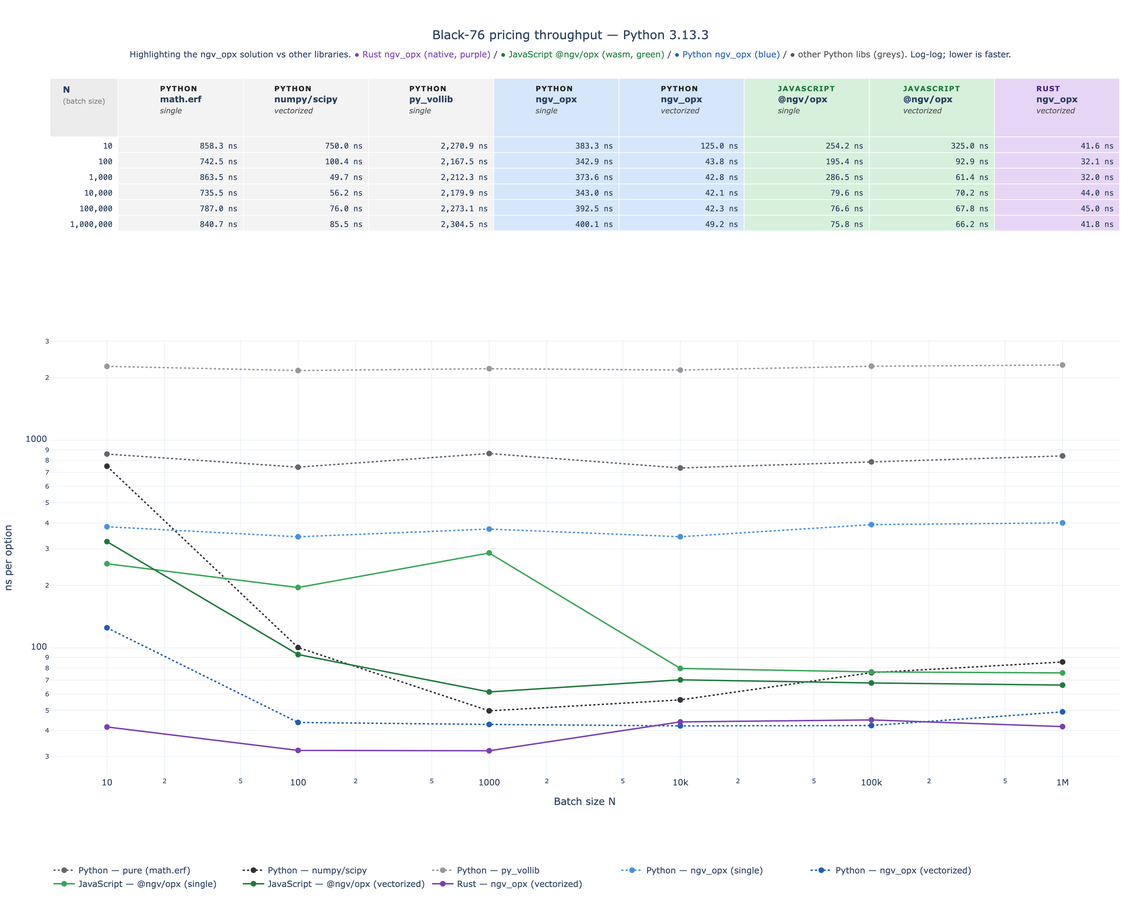
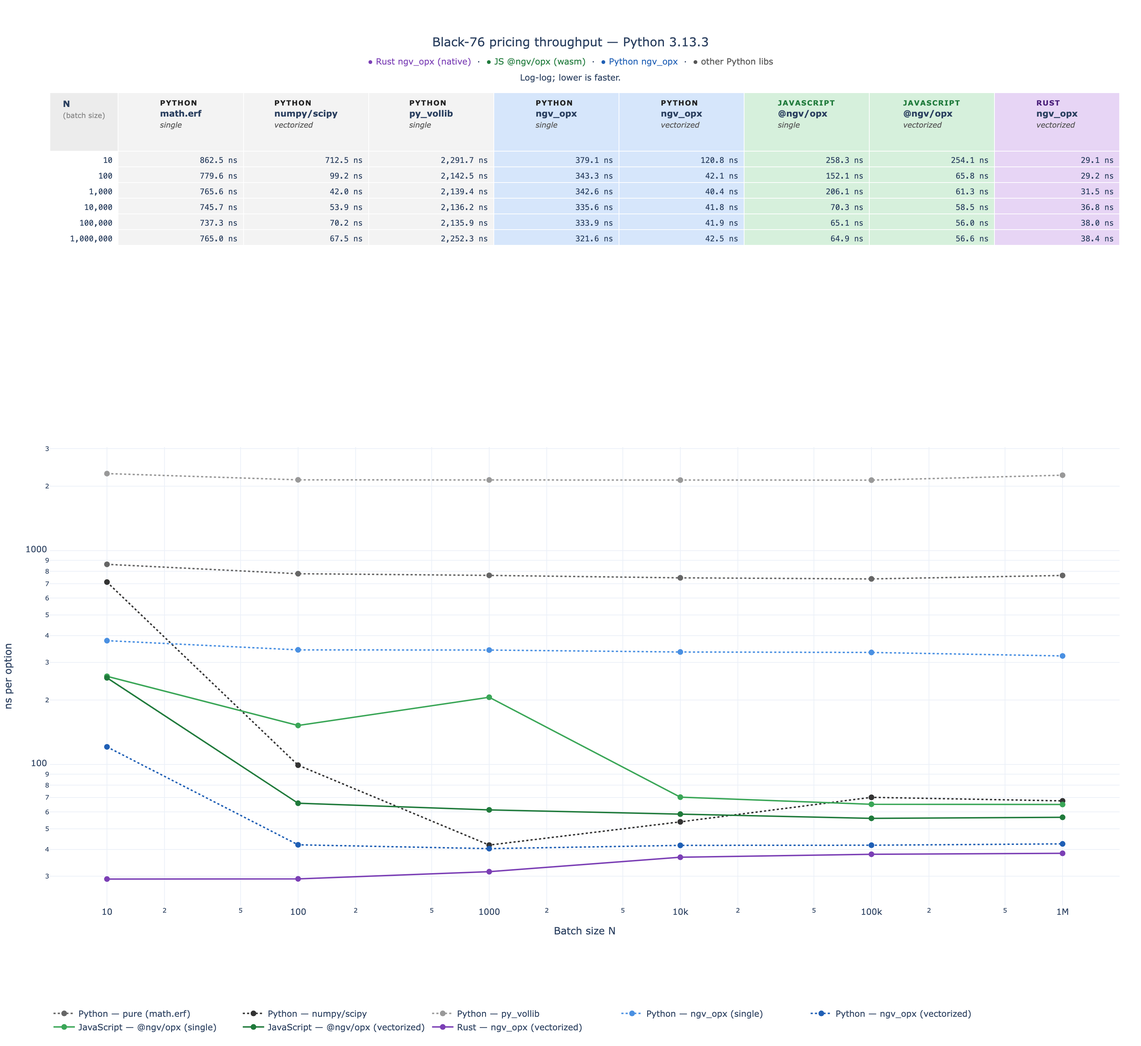
style(bench): more vertical space; two-line subtitle
Two layout fixes:

- Table was clipping the N=1,000,000 row because the 3-line stacked
  header (commit 2a2aa28) ate into the 0.32 row-height share. Bump
  overall figure to 1100px and table share to 0.40, so all six size
  rows (10 → 1M) fit comfortably under the new header.

- Subtitle overflowed the 1200px chart width when all four color
  legends were on one line. Split into two lines: legend on top,
  log-log axis note below. Also dropped the parenthetical "(native,
  purple)" / "(wasm, green)" tags since the colored bullets already
  carry that signal.

PNG export height bumped 1267 → 1467 to preserve aspect ratio.

diff --git a/benchmarks/bench_chart.html b/benchmarks/bench_chart.html
@@ -2,6 +2,6 @@
 <head><meta charset="utf-8" /></head>
 <body>
     <div>                        <script>window.PlotlyConfig = {MathJaxConfig: 'local'};</script>
-        <script charset="utf-8" src="https://cdn.plot.ly/plotly-3.5.0.min.js" integrity="sha256-fHbNLP+GlIXN+efbQec78UkemUz3NJp7UmfGxC1tNxs=" crossorigin="anonymous"></script>                <div id="b116313f-a162-4377-82ae-cb65ef4e4dff" class="plotly-graph-div" style="height:950px; width:1200px;"></div>            <script>                window.PLOTLYENV=window.PLOTLYENV || {};                                if (document.getElementById("b116313f-a162-4377-82ae-cb65ef4e4dff")) {                    Plotly.newPlot(                        "b116313f-a162-4377-82ae-cb65ef4e4dff",                        [{"hovertemplate":"\u003cb\u003ePython — pure (math.erf)\u003c\u002fb\u003e\u003cbr\u003elanguage: Python\u003cbr\u003eN=%{x:,}\u003cbr\u003e%{y:.1f} ns\u002foption\u003cextra\u003e\u003c\u002fextra\u003e","line":{"color":"#666666","dash":"dot","width":2},"marker":{"size":8},"mode":"lines+markers","name":"Python — pure (math.erf)","x":[10,100,1000,10000,100000,1000000],"y":[858.2952432334423,742.4992509186268,863.5410340502858,735.512503888458,786.9600004050881,840.7150839921087],"type":"scatter","xaxis":"x","yaxis":"y"},{"hovertemplate":"\u003cb\u003ePython — numpy\u002fscipy\u003c\u002fb\u003e\u003cbr\u003elanguage: Python\u003cbr\u003eN=%{x:,}\u003cbr\u003e%{y:.1f} ns\u002foption\u003cextra\u003e\u003c\u002fextra\u003e","line":{"color":"#333333","dash":"dot","width":2},"marker":{"size":8},"mode":"lines+markers","name":"Python — numpy\u002fscipy","x":[10,100,1000,10000,100000,1000000],"y":[749.9940693378448,100.41985660791397,49.749971367418766,56.18750583380461,75.9920896962285,85.52004199009389],"type":"scatter","xaxis":"x","yaxis":"y"},{"hovertemplate":"\u003cb\u003ePython — py_vollib\u003c\u002fb\u003e\u003cbr\u003elanguage: Python\u003cbr\u003eN=%{x:,}\u003cbr\u003e%{y:.1f} ns\u002foption\u003cextra\u003e\u003c\u002fextra\u003e","line":{"color":"#999999","dash":"dot","width":2},"marker":{"size":8},"mode":"lines+markers","name":"Python — py_vollib","x":[10,100,1000,10000,100000,1000000],"y":[2270.9020413458347,2167.4996241927147,2212.3330272734165,2179.9417096190155,2273.142079357058,2304.498167010024],"type":"scatter","xaxis":"x","yaxis":"y"},{"hovertemplate":"\u003cb\u003ePython — ngv_opx (single)\u003c\u002fb\u003e\u003cbr\u003elanguage: Python\u003cbr\u003eN=%{x:,}\u003cbr\u003e%{y:.1f} ns\u002foption\u003cextra\u003e\u003c\u002fextra\u003e","line":{"color":"#4a90e2","dash":"dot","width":2},"marker":{"size":8},"mode":"lines+markers","name":"Python — ngv_opx (single)","x":[10,100,1000,10000,100000,1000000],"y":[383.2974471151829,342.91064366698265,373.5839854925871,343.00830448046327,392.45208026841283,400.07895801682025],"type":"scatter","xaxis":"x","yaxis":"y"},{"hovertemplate":"\u003cb\u003ePython — ngv_opx (vectorized)\u003c\u002fb\u003e\u003cbr\u003elanguage: Python\u003cbr\u003eN=%{x:,}\u003cbr\u003e%{y:.1f} ns\u002foption\u003cextra\u003e\u003c\u002fextra\u003e","line":{"color":"#1f5fb5","dash":"dot","width":2},"marker":{"size":8},"mode":"lines+markers","name":"Python — ngv_opx (vectorized)","x":[10,100,1000,10000,100000,1000000],"y":[124.99513104557991,43.75004209578037,42.7919439971447,42.104197200387716,42.269579134881496,49.20174996368587],"type":"scatter","xaxis":"x","yaxis":"y"},{"hovertemplate":"\u003cb\u003eJavaScript — @ngv\u002fopx (single)\u003c\u002fb\u003e\u003cbr\u003elanguage: JavaScript\u003cbr\u003eN=%{x:,}\u003cbr\u003e%{y:.1f} ns\u002foption\u003cextra\u003e\u003c\u002fextra\u003e","line":{"color":"#3aa657","dash":"solid","width":2},"marker":{"size":8},"mode":"lines+markers","name":"JavaScript — @ngv\u002fopx (single)","x":[10,100,1000,10000,100000,1000000],"y":[254.20000000018206,195.4200000000128,286.54200000000077,79.6167000000004,76.62042,75.784583],"type":"scatter","xaxis":"x","yaxis":"y"},{"hovertemplate":"\u003cb\u003eJavaScript — @ngv\u002fopx (vectorized)\u003c\u002fb\u003e\u003cbr\u003elanguage: JavaScript\u003cbr\u003eN=%{x:,}\u003cbr\u003e%{y:.1f} ns\u002foption\u003cextra\u003e\u003c\u002fextra\u003e","line":{"color":"#1f7a3b","dash":"solid","width":2},"marker":{"size":8},"mode":"lines+markers","name":"JavaScript — @ngv\u002fopx (vectorized)","x":[10,100,1000,10000,100000,1000000],"y":[324.99999999977547,92.91000000001048,61.37500000000174,70.16250000000001,67.77584000000006,66.17812500000001],"type":"scatter","xaxis":"x","yaxis":"y"},{"hovertemplate":"\u003cb\u003eRust — ngv_opx (vectorized)\u003c\u002fb\u003e\u003cbr\u003elanguage: Rust\u003cbr\u003eN=%{x:,}\u003cbr\u003e%{y:.1f} ns\u002foption\u003cextra\u003e\u003c\u002fextra\u003e","line":{"color":"#7b3fb5","dash":"solid","width":2},"marker":{"size":8},"mode":"lines+markers","name":"Rust — ngv_opx (vectorized)","x":[10,100,1000,10000,100000,1000000],"y":[41.6,32.08,31.958,44.0,44.9921,41.7671],"type":"scatter","xaxis":"x","yaxis":"y"},{"cells":{"align":"right","fill":{"color":[["white","white","white","white","white","white"],["#f3f3f3","#f3f3f3","#f3f3f3","#f3f3f3","#f3f3f3","#f3f3f3"],["#f3f3f3","#f3f3f3","#f3f3f3","#f3f3f3","#f3f3f3","#f3f3f3"],["#f3f3f3","#f3f3f3","#f3f3f3","#f3f3f3","#f3f3f3","#f3f3f3"],["#d6e6fb","#d6e6fb","#d6e6fb","#d6e6fb","#d6e6fb","#d6e6fb"],["#d6e6fb","#d6e6fb","#d6e6fb","#d6e6fb","#d6e6fb","#d6e6fb"],["#d6f0dc","#d6f0dc","#d6f0dc","#d6f0dc","#d6f0dc","#d6f0dc"],["#d6f0dc","#d6f0dc","#d6f0dc","#d6f0dc","#d6f0dc","#d6f0dc"],["#e7d5f5","#e7d5f5","#e7d5f5","#e7d5f5","#e7d5f5","#e7d5f5"]]},"font":{"family":"monospace","size":11},"height":22,"values":[["10","100","1,000","10,000","100,000","1,000,000"],["858.3 ns","742.5 ns","863.5 ns","735.5 ns","787.0 ns","840.7 ns"],["750.0 ns","100.4 ns","49.7 ns","56.2 ns","76.0 ns","85.5 ns"],["2,270.9 ns","2,167.5 ns","2,212.3 ns","2,179.9 ns","2,273.1 ns","2,304.5 ns"],["383.3 ns","342.9 ns","373.6 ns","343.0 ns","392.5 ns","400.1 ns"],["125.0 ns","43.8 ns","42.8 ns","42.1 ns","42.3 ns","49.2 ns"],["254.2 ns","195.4 ns","286.5 ns","79.6 ns","76.6 ns","75.8 ns"],["325.0 ns","92.9 ns","61.4 ns","70.2 ns","67.8 ns","66.2 ns"],["41.6 ns","32.1 ns","32.0 ns","44.0 ns","45.0 ns","41.8 ns"]]},"columnwidth":[60,110,110,110,110,110,110,110,110],"header":{"align":"center","fill":{"color":["#ececec","#f3f3f3","#f3f3f3","#f3f3f3","#d6e6fb","#d6e6fb","#d6f0dc","#d6f0dc","#e7d5f5"]},"font":{"size":12},"height":82,"values":["\u003cb\u003eN\u003c\u002fb\u003e\u003cbr\u003e\u003cspan style='font-size:10px;color:#888'\u003e(batch size)\u003c\u002fspan\u003e","\u003cspan style='background:#dcdcdc;color:#222222;font-size:10px;font-weight:700;padding:2px 8px;border-radius:3px;letter-spacing:1px;'\u003ePYTHON\u003c\u002fspan\u003e\u003cbr\u003e\u003cspan style='background:#f3f3f3;display:inline-block;padding:1px 8px;border-radius:3px;'\u003e\u003cb style='font-size:12px'\u003emath.erf\u003c\u002fb\u003e\u003c\u002fspan\u003e\u003cbr\u003e\u003cspan style='font-size:10.5px;color:#555;font-style:italic'\u003esingle\u003c\u002fspan\u003e","\u003cspan style='background:#dcdcdc;color:#222222;font-size:10px;font-weight:700;padding:2px 8px;border-radius:3px;letter-spacing:1px;'\u003ePYTHON\u003c\u002fspan\u003e\u003cbr\u003e\u003cspan style='background:#f3f3f3;display:inline-block;padding:1px 8px;border-radius:3px;'\u003e\u003cb style='font-size:12px'\u003enumpy\u002fscipy\u003c\u002fb\u003e\u003c\u002fspan\u003e\u003cbr\u003e\u003cspan style='font-size:10.5px;color:#555;font-style:italic'\u003evectorized\u003c\u002fspan\u003e","\u003cspan style='background:#dcdcdc;color:#222222;font-size:10px;font-weight:700;padding:2px 8px;border-radius:3px;letter-spacing:1px;'\u003ePYTHON\u003c\u002fspan\u003e\u003cbr\u003e\u003cspan style='background:#f3f3f3;display:inline-block;padding:1px 8px;border-radius:3px;'\u003e\u003cb style='font-size:12px'\u003epy_vollib\u003c\u002fb\u003e\u003c\u002fspan\u003e\u003cbr\u003e\u003cspan style='font-size:10.5px;color:#555;font-style:italic'\u003esingle\u003c\u002fspan\u003e","\u003cspan style='background:#dcdcdc;color:#222222;font-size:10px;font-weight:700;padding:2px 8px;border-radius:3px;letter-spacing:1px;'\u003ePYTHON\u003c\u002fspan\u003e\u003cbr\u003e\u003cspan style='background:#d6e6fb;display:inline-block;padding:1px 8px;border-radius:3px;'\u003e\u003cb style='font-size:12px'\u003engv_opx\u003c\u002fb\u003e\u003c\u002fspan\u003e\u003cbr\u003e\u003cspan style='font-size:10.5px;color:#555;font-style:italic'\u003esingle\u003c\u002fspan\u003e","\u003cspan style='background:#dcdcdc;color:#222222;font-size:10px;font-weight:700;padding:2px 8px;border-radius:3px;letter-spacing:1px;'\u003ePYTHON\u003c\u002fspan\u003e\u003cbr\u003e\u003cspan style='background:#d6e6fb;display:inline-block;padding:1px 8px;border-radius:3px;'\u003e\u003cb style='font-size:12px'\u003engv_opx\u003c\u002fb\u003e\u003c\u002fspan\u003e\u003cbr\u003e\u003cspan style='font-size:10.5px;color:#555;font-style:italic'\u003evectorized\u003c\u002fspan\u003e","\u003cspan style='background:#c8e6cf;color:#1f7a3b;font-size:10px;font-weight:700;padding:2px 8px;border-radius:3px;letter-spacing:1px;'\u003eJAVASCRIPT\u003c\u002fspan\u003e\u003cbr\u003e\u003cspan style='background:#d6f0dc;display:inline-block;padding:1px 8px;border-radius:3px;'\u003e\u003cb style='font-size:12px'\u003e@ngv\u002fopx\u003c\u002fb\u003e\u003c\u002fspan\u003e\u003cbr\u003e\u003cspan style='font-size:10.5px;color:#555;font-style:italic'\u003esingle\u003c\u002fspan\u003e","\u003cspan style='background:#c8e6cf;color:#1f7a3b;font-size:10px;font-weight:700;padding:2px 8px;border-radius:3px;letter-spacing:1px;'\u003eJAVASCRIPT\u003c\u002fspan\u003e\u003cbr\u003e\u003cspan style='background:#d6f0dc;display:inline-block;padding:1px 8px;border-radius:3px;'\u003e\u003cb style='font-size:12px'\u003e@ngv\u002fopx\u003c\u002fb\u003e\u003c\u002fspan\u003e\u003cbr\u003e\u003cspan style='font-size:10.5px;color:#555;font-style:italic'\u003evectorized\u003c\u002fspan\u003e","\u003cspan style='background:#d8c4ea;color:#4a1f7a;font-size:10px;font-weight:700;padding:2px 8px;border-radius:3px;letter-spacing:1px;'\u003eRUST\u003c\u002fspan\u003e\u003cbr\u003e\u003cspan style='background:#e7d5f5;display:inline-block;padding:1px 8px;border-radius:3px;'\u003e\u003cb style='font-size:12px'\u003engv_opx\u003c\u002fb\u003e\u003c\u002fspan\u003e\u003cbr\u003e\u003cspan style='font-size:10.5px;color:#555;font-style:italic'\u003evectorized\u003c\u002fspan\u003e"]},"type":"table","domain":{"x":[0.0,1.0],"y":[0.7056,1.0]}}],                        {"template":{"data":{"barpolar":[{"marker":{"line":{"color":"white","width":0.5},"pattern":{"fillmode":"overlay","size":10,"solidity":0.2}},"type":"barpolar"}],"bar":[{"error_x":{"color":"#2a3f5f"},"error_y":{"color":"#2a3f5f"},"marker":{"line":{"color":"white","width":0.5},"pattern":{"fillmode":"overlay","size":10,"solidity":0.2}},"type":"bar"}],"carpet":[{"aaxis":{"endlinecolor":"#2a3f5f","gridcolor":"#C8D4E3","linecolor":"#C8D4E3","minorgridcolor":"#C8D4E3","startlinecolor":"#2a3f5f"},"baxis":{"endlinecolor":"#2a3f5f","gridcolor":"#C8D4E3","linecolor":"#C8D4E3","minorgridcolor":"#C8D4E3","startlinecolor":"#2a3f5f"},"type":"carpet"}],"choropleth":[{"colorbar":{"outlinewidth":0,"ticks":""},"type":"choropleth"}],"contourcarpet":[{"colorbar":{"outlinewidth":0,"ticks":""},"type":"contourcarpet"}],"contour":[{"colorbar":{"outlinewidth":0,"ticks":""},"colorscale":[[0.0,"#0d0887"],[0.1111111111111111,"#46039f"],[0.2222222222222222,"#7201a8"],[0.3333333333333333,"#9c179e"],[0.4444444444444444,"#bd3786"],[0.5555555555555556,"#d8576b"],[0.6666666666666666,"#ed7953"],[0.7777777777777778,"#fb9f3a"],[0.8888888888888888,"#fdca26"],[1.0,"#f0f921"]],"type":"contour"}],"heatmap":[{"colorbar":{"outlinewidth":0,"ticks":""},"colorscale":[[0.0,"#0d0887"],[0.1111111111111111,"#46039f"],[0.2222222222222222,"#7201a8"],[0.3333333333333333,"#9c179e"],[0.4444444444444444,"#bd3786"],[0.5555555555555556,"#d8576b"],[0.6666666666666666,"#ed7953"],[0.7777777777777778,"#fb9f3a"],[0.8888888888888888,"#fdca26"],[1.0,"#f0f921"]],"type":"heatmap"}],"histogram2dcontour":[{"colorbar":{"outlinewidth":0,"ticks":""},"colorscale":[[0.0,"#0d0887"],[0.1111111111111111,"#46039f"],[0.2222222222222222,"#7201a8"],[0.3333333333333333,"#9c179e"],[0.4444444444444444,"#bd3786"],[0.5555555555555556,"#d8576b"],[0.6666666666666666,"#ed7953"],[0.7777777777777778,"#fb9f3a"],[0.8888888888888888,"#fdca26"],[1.0,"#f0f921"]],"type":"histogram2dcontour"}],"histogram2d":[{"colorbar":{"outlinewidth":0,"ticks":""},"colorscale":[[0.0,"#0d0887"],[0.1111111111111111,"#46039f"],[0.2222222222222222,"#7201a8"],[0.3333333333333333,"#9c179e"],[0.4444444444444444,"#bd3786"],[0.5555555555555556,"#d8576b"],[0.6666666666666666,"#ed7953"],[0.7777777777777778,"#fb9f3a"],[0.8888888888888888,"#fdca26"],[1.0,"#f0f921"]],"type":"histogram2d"}],"histogram":[{"marker":{"pattern":{"fillmode":"overlay","size":10,"solidity":0.2}},"type":"histogram"}],"mesh3d":[{"colorbar":{"outlinewidth":0,"ticks":""},"type":"mesh3d"}],"parcoords":[{"line":{"colorbar":{"outlinewidth":0,"ticks":""}},"type":"parcoords"}],"pie":[{"automargin":true,"type":"pie"}],"scatter3d":[{"line":{"colorbar":{"outlinewidth":0,"ticks":""}},"marker":{"colorbar":{"outlinewidth":0,"ticks":""}},"type":"scatter3d"}],"scattercarpet":[{"marker":{"colorbar":{"outlinewidth":0,"ticks":""}},"type":"scattercarpet"}],"scattergeo":[{"marker":{"colorbar":{"outlinewidth":0,"ticks":""}},"type":"scattergeo"}],"scattergl":[{"marker":{"colorbar":{"outlinewidth":0,"ticks":""}},"type":"scattergl"}],"scattermapbox":[{"marker":{"colorbar":{"outlinewidth":0,"ticks":""}},"type":"scattermapbox"}],"scattermap":[{"marker":{"colorbar":{"outlinewidth":0,"ticks":""}},"type":"scattermap"}],"scatterpolargl":[{"marker":{"colorbar":{"outlinewidth":0,"ticks":""}},"type":"scatterpolargl"}],"scatterpolar":[{"marker":{"colorbar":{"outlinewidth":0,"ticks":""}},"type":"scatterpolar"}],"scatter":[{"fillpattern":{"fillmode":"overlay","size":10,"solidity":0.2},"type":"scatter"}],"scatterternary":[{"marker":{"colorbar":{"outlinewidth":0,"ticks":""}},"type":"scatterternary"}],"surface":[{"colorbar":{"outlinewidth":0,"ticks":""},"colorscale":[[0.0,"#0d0887"],[0.1111111111111111,"#46039f"],[0.2222222222222222,"#7201a8"],[0.3333333333333333,"#9c179e"],[0.4444444444444444,"#bd3786"],[0.5555555555555556,"#d8576b"],[0.6666666666666666,"#ed7953"],[0.7777777777777778,"#fb9f3a"],[0.8888888888888888,"#fdca26"],[1.0,"#f0f921"]],"type":"surface"}],"table":[{"cells":{"fill":{"color":"#EBF0F8"},"line":{"color":"white"}},"header":{"fill":{"color":"#C8D4E3"},"line":{"color":"white"}},"type":"table"}]},"layout":{"annotationdefaults":{"arrowcolor":"#2a3f5f","arrowhead":0,"arrowwidth":1},"autotypenumbers":"strict","coloraxis":{"colorbar":{"outlinewidth":0,"ticks":""}},"colorscale":{"diverging":[[0,"#8e0152"],[0.1,"#c51b7d"],[0.2,"#de77ae"],[0.3,"#f1b6da"],[0.4,"#fde0ef"],[0.5,"#f7f7f7"],[0.6,"#e6f5d0"],[0.7,"#b8e186"],[0.8,"#7fbc41"],[0.9,"#4d9221"],[1,"#276419"]],"sequential":[[0.0,"#0d0887"],[0.1111111111111111,"#46039f"],[0.2222222222222222,"#7201a8"],[0.3333333333333333,"#9c179e"],[0.4444444444444444,"#bd3786"],[0.5555555555555556,"#d8576b"],[0.6666666666666666,"#ed7953"],[0.7777777777777778,"#fb9f3a"],[0.8888888888888888,"#fdca26"],[1.0,"#f0f921"]],"sequentialminus":[[0.0,"#0d0887"],[0.1111111111111111,"#46039f"],[0.2222222222222222,"#7201a8"],[0.3333333333333333,"#9c179e"],[0.4444444444444444,"#bd3786"],[0.5555555555555556,"#d8576b"],[0.6666666666666666,"#ed7953"],[0.7777777777777778,"#fb9f3a"],[0.8888888888888888,"#fdca26"],[1.0,"#f0f921"]]},"colorway":["#636efa","#EF553B","#00cc96","#ab63fa","#FFA15A","#19d3f3","#FF6692","#B6E880","#FF97FF","#FECB52"],"font":{"color":"#2a3f5f"},"geo":{"bgcolor":"white","lakecolor":"white","landcolor":"white","showlakes":true,"showland":true,"subunitcolor":"#C8D4E3"},"hoverlabel":{"align":"left"},"hovermode":"closest","mapbox":{"style":"light"},"paper_bgcolor":"white","plot_bgcolor":"white","polar":{"angularaxis":{"gridcolor":"#EBF0F8","linecolor":"#EBF0F8","ticks":""},"bgcolor":"white","radialaxis":{"gridcolor":"#EBF0F8","linecolor":"#EBF0F8","ticks":""}},"scene":{"xaxis":{"backgroundcolor":"white","gridcolor":"#DFE8F3","gridwidth":2,"linecolor":"#EBF0F8","showbackground":true,"ticks":"","zerolinecolor":"#EBF0F8"},"yaxis":{"backgroundcolor":"white","gridcolor":"#DFE8F3","gridwidth":2,"linecolor":"#EBF0F8","showbackground":true,"ticks":"","zerolinecolor":"#EBF0F8"},"zaxis":{"backgroundcolor":"white","gridcolor":"#DFE8F3","gridwidth":2,"linecolor":"#EBF0F8","showbackground":true,"ticks":"","zerolinecolor":"#EBF0F8"}},"shapedefaults":{"line":{"color":"#2a3f5f"}},"ternary":{"aaxis":{"gridcolor":"#DFE8F3","linecolor":"#A2B1C6","ticks":""},"baxis":{"gridcolor":"#DFE8F3","linecolor":"#A2B1C6","ticks":""},"bgcolor":"white","caxis":{"gridcolor":"#DFE8F3","linecolor":"#A2B1C6","ticks":""}},"title":{"x":0.05},"xaxis":{"automargin":true,"gridcolor":"#EBF0F8","linecolor":"#EBF0F8","ticks":"","title":{"standoff":15},"zerolinecolor":"#EBF0F8","zerolinewidth":2},"yaxis":{"automargin":true,"gridcolor":"#EBF0F8","linecolor":"#EBF0F8","ticks":"","title":{"standoff":15},"zerolinecolor":"#EBF0F8","zerolinewidth":2}}},"xaxis":{"anchor":"y","domain":[0.0,1.0],"title":{"text":"Batch size N"},"type":"log","showgrid":true},"yaxis":{"anchor":"x","domain":[0.0,0.6256],"title":{"text":"ns per option"},"type":"log","showgrid":true},"title":{"text":"Black-76 pricing throughput — Python 3.13.3\u003cbr\u003e\u003csub\u003eHighlighting the ngv_opx solution vs other libraries. \u003cspan style='color:#7b3fb5'\u003e● Rust ngv_opx (native, purple)\u003c\u002fspan\u003e \u002f \u003cspan style='color:#1f7a3b'\u003e● JavaScript @ngv\u002fopx (wasm, green)\u003c\u002fspan\u003e \u002f \u003cspan style='color:#1f5fb5'\u003e● Python ngv_opx (blue)\u003c\u002fspan\u003e \u002f \u003cspan style='color:#555'\u003e● other Python libs (greys)\u003c\u002fspan\u003e. Log-log; lower is faster.\u003c\u002fsub\u003e","x":0.5,"xanchor":"center"},"legend":{"orientation":"h","yanchor":"top","y":-0.12,"x":0.0},"margin":{"l":70,"r":30,"t":110,"b":80},"height":950,"width":1200},                        {"responsive": true}                    )                };            </script>        </div>
+        <script charset="utf-8" src="https://cdn.plot.ly/plotly-3.5.0.min.js" integrity="sha256-fHbNLP+GlIXN+efbQec78UkemUz3NJp7UmfGxC1tNxs=" crossorigin="anonymous"></script>                <div id="d0c873e7-9926-4fae-94c0-4bbb910a9fa9" class="plotly-graph-div" style="height:1100px; width:1200px;"></div>            <script>                window.PLOTLYENV=window.PLOTLYENV || {};                                if (document.getElementById("d0c873e7-9926-4fae-94c0-4bbb910a9fa9")) {                    Plotly.newPlot(                        "d0c873e7-9926-4fae-94c0-4bbb910a9fa9",                        [{"hovertemplate":"\u003cb\u003ePython — pure (math.erf)\u003c\u002fb\u003e\u003cbr\u003elanguage: Python\u003cbr\u003eN=%{x:,}\u003cbr\u003e%{y:.1f} ns\u002foption\u003cextra\u003e\u003c\u002fextra\u003e","line":{"color":"#666666","dash":"dot","width":2},"marker":{"size":8},"mode":"lines+markers","name":"Python — pure (math.erf)","x":[10,100,1000,10000,100000,1000000],"y":[862.4978363513947,779.5798592269421,765.6249217689037,745.6917082890868,737.2525008395314,764.989290968515],"type":"scatter","xaxis":"x","yaxis":"y"},{"hovertemplate":"\u003cb\u003ePython — numpy\u002fscipy\u003c\u002fb\u003e\u003cbr\u003elanguage: Python\u003cbr\u003eN=%{x:,}\u003cbr\u003e%{y:.1f} ns\u002foption\u003cextra\u003e\u003c\u002fextra\u003e","line":{"color":"#333333","dash":"dot","width":2},"marker":{"size":8},"mode":"lines+markers","name":"Python — numpy\u002fscipy","x":[10,100,1000,10000,100000,1000000],"y":[712.4966941773891,99.16955605149269,41.95794463157654,53.87089913710952,70.15999988652766,67.52804096322507],"type":"scatter","xaxis":"x","yaxis":"y"},{"hovertemplate":"\u003cb\u003ePython — py_vollib\u003c\u002fb\u003e\u003cbr\u003elanguage: Python\u003cbr\u003eN=%{x:,}\u003cbr\u003e%{y:.1f} ns\u002foption\u003cextra\u003e\u003c\u002fextra\u003e","line":{"color":"#999999","dash":"dot","width":2},"marker":{"size":8},"mode":"lines+markers","name":"Python — py_vollib","x":[10,100,1000,10000,100000,1000000],"y":[2291.705459356308,2142.4994338303804,2139.3749630078673,2136.1750084906816,2135.8612505719066,2252.2521669743583],"type":"scatter","xaxis":"x","yaxis":"y"},{"hovertemplate":"\u003cb\u003ePython — ngv_opx (single)\u003c\u002fb\u003e\u003cbr\u003elanguage: Python\u003cbr\u003eN=%{x:,}\u003cbr\u003e%{y:.1f} ns\u002foption\u003cextra\u003e\u003c\u002fextra\u003e","line":{"color":"#4a90e2","dash":"dot","width":2},"marker":{"size":8},"mode":"lines+markers","name":"Python — ngv_opx (single)","x":[10,100,1000,10000,100000,1000000],"y":[379.09485399723053,343.3297388255596,342.62496046721935,335.5583059601486,333.9262492954731,321.6204590862617],"type":"scatter","xaxis":"x","yaxis":"y"},{"hovertemplate":"\u003cb\u003ePython — ngv_opx (vectorized)\u003c\u002fb\u003e\u003cbr\u003elanguage: Python\u003cbr\u003eN=%{x:,}\u003cbr\u003e%{y:.1f} ns\u002foption\u003cextra\u003e\u003c\u002fextra\u003e","line":{"color":"#1f5fb5","dash":"dot","width":2},"marker":{"size":8},"mode":"lines+markers","name":"Python — ngv_opx (vectorized)","x":[10,100,1000,10000,100000,1000000],"y":[120.80417945981026,42.07948222756386,40.37492908537388,41.820795740932226,41.89249943010509,42.50054096337408],"type":"scatter","xaxis":"x","yaxis":"y"},{"hovertemplate":"\u003cb\u003eJavaScript — @ngv\u002fopx (single)\u003c\u002fb\u003e\u003cbr\u003elanguage: JavaScript\u003cbr\u003eN=%{x:,}\u003cbr\u003e%{y:.1f} ns\u002foption\u003cextra\u003e\u003c\u002fextra\u003e","line":{"color":"#3aa657","dash":"solid","width":2},"marker":{"size":8},"mode":"lines+markers","name":"JavaScript — @ngv\u002fopx (single)","x":[10,100,1000,10000,100000,1000000],"y":[258.29999999977815,152.08999999998696,206.1250000000001,70.28750000000024,65.11874999999995,64.93758400000002],"type":"scatter","xaxis":"x","yaxis":"y"},{"hovertemplate":"\u003cb\u003eJavaScript — @ngv\u002fopx (vectorized)\u003c\u002fb\u003e\u003cbr\u003elanguage: JavaScript\u003cbr\u003eN=%{x:,}\u003cbr\u003e%{y:.1f} ns\u002foption\u003cextra\u003e\u003c\u002fextra\u003e","line":{"color":"#1f7a3b","dash":"solid","width":2},"marker":{"size":8},"mode":"lines+markers","name":"JavaScript — @ngv\u002fopx (vectorized)","x":[10,100,1000,10000,100000,1000000],"y":[254.1000000000793,65.82999999999117,61.29200000000167,58.545900000000024,55.95250000000001,56.56204200000002],"type":"scatter","xaxis":"x","yaxis":"y"},{"hovertemplate":"\u003cb\u003eRust — ngv_opx (vectorized)\u003c\u002fb\u003e\u003cbr\u003elanguage: Rust\u003cbr\u003eN=%{x:,}\u003cbr\u003e%{y:.1f} ns\u002foption\u003cextra\u003e\u003c\u002fextra\u003e","line":{"color":"#7b3fb5","dash":"solid","width":2},"marker":{"size":8},"mode":"lines+markers","name":"Rust — ngv_opx (vectorized)","x":[10,100,1000,10000,100000,1000000],"y":[29.1,29.16,31.5,36.8,38.0083,38.3946],"type":"scatter","xaxis":"x","yaxis":"y"},{"cells":{"align":"right","fill":{"color":[["white","white","white","white","white","white"],["#f3f3f3","#f3f3f3","#f3f3f3","#f3f3f3","#f3f3f3","#f3f3f3"],["#f3f3f3","#f3f3f3","#f3f3f3","#f3f3f3","#f3f3f3","#f3f3f3"],["#f3f3f3","#f3f3f3","#f3f3f3","#f3f3f3","#f3f3f3","#f3f3f3"],["#d6e6fb","#d6e6fb","#d6e6fb","#d6e6fb","#d6e6fb","#d6e6fb"],["#d6e6fb","#d6e6fb","#d6e6fb","#d6e6fb","#d6e6fb","#d6e6fb"],["#d6f0dc","#d6f0dc","#d6f0dc","#d6f0dc","#d6f0dc","#d6f0dc"],["#d6f0dc","#d6f0dc","#d6f0dc","#d6f0dc","#d6f0dc","#d6f0dc"],["#e7d5f5","#e7d5f5","#e7d5f5","#e7d5f5","#e7d5f5","#e7d5f5"]]},"font":{"family":"monospace","size":11},"height":22,"values":[["10","100","1,000","10,000","100,000","1,000,000"],["862.5 ns","779.6 ns","765.6 ns","745.7 ns","737.3 ns","765.0 ns"],["712.5 ns","99.2 ns","42.0 ns","53.9 ns","70.2 ns","67.5 ns"],["2,291.7 ns","2,142.5 ns","2,139.4 ns","2,136.2 ns","2,135.9 ns","2,252.3 ns"],["379.1 ns","343.3 ns","342.6 ns","335.6 ns","333.9 ns","321.6 ns"],["120.8 ns","42.1 ns","40.4 ns","41.8 ns","41.9 ns","42.5 ns"],["258.3 ns","152.1 ns","206.1 ns","70.3 ns","65.1 ns","64.9 ns"],["254.1 ns","65.8 ns","61.3 ns","58.5 ns","56.0 ns","56.6 ns"],["29.1 ns","29.2 ns","31.5 ns","36.8 ns","38.0 ns","38.4 ns"]]},"columnwidth":[60,110,110,110,110,110,110,110,110],"header":{"align":"center","fill":{"color":["#ececec","#f3f3f3","#f3f3f3","#f3f3f3","#d6e6fb","#d6e6fb","#d6f0dc","#d6f0dc","#e7d5f5"]},"font":{"size":12},"height":82,"values":["\u003cb\u003eN\u003c\u002fb\u003e\u003cbr\u003e\u003cspan style='font-size:10px;color:#888'\u003e(batch size)\u003c\u002fspan\u003e","\u003cspan style='background:#dcdcdc;color:#222222;font-size:10px;font-weight:700;padding:2px 8px;border-radius:3px;letter-spacing:1px;'\u003ePYTHON\u003c\u002fspan\u003e\u003cbr\u003e\u003cspan style='background:#f3f3f3;display:inline-block;padding:1px 8px;border-radius:3px;'\u003e\u003cb style='font-size:12px'\u003emath.erf\u003c\u002fb\u003e\u003c\u002fspan\u003e\u003cbr\u003e\u003cspan style='font-size:10.5px;color:#555;font-style:italic'\u003esingle\u003c\u002fspan\u003e","\u003cspan style='background:#dcdcdc;color:#222222;font-size:10px;font-weight:700;padding:2px 8px;border-radius:3px;letter-spacing:1px;'\u003ePYTHON\u003c\u002fspan\u003e\u003cbr\u003e\u003cspan style='background:#f3f3f3;display:inline-block;padding:1px 8px;border-radius:3px;'\u003e\u003cb style='font-size:12px'\u003enumpy\u002fscipy\u003c\u002fb\u003e\u003c\u002fspan\u003e\u003cbr\u003e\u003cspan style='font-size:10.5px;color:#555;font-style:italic'\u003evectorized\u003c\u002fspan\u003e","\u003cspan style='background:#dcdcdc;color:#222222;font-size:10px;font-weight:700;padding:2px 8px;border-radius:3px;letter-spacing:1px;'\u003ePYTHON\u003c\u002fspan\u003e\u003cbr\u003e\u003cspan style='background:#f3f3f3;display:inline-block;padding:1px 8px;border-radius:3px;'\u003e\u003cb style='font-size:12px'\u003epy_vollib\u003c\u002fb\u003e\u003c\u002fspan\u003e\u003cbr\u003e\u003cspan style='font-size:10.5px;color:#555;font-style:italic'\u003esingle\u003c\u002fspan\u003e","\u003cspan style='background:#dcdcdc;color:#222222;font-size:10px;font-weight:700;padding:2px 8px;border-radius:3px;letter-spacing:1px;'\u003ePYTHON\u003c\u002fspan\u003e\u003cbr\u003e\u003cspan style='background:#d6e6fb;display:inline-block;padding:1px 8px;border-radius:3px;'\u003e\u003cb style='font-size:12px'\u003engv_opx\u003c\u002fb\u003e\u003c\u002fspan\u003e\u003cbr\u003e\u003cspan style='font-size:10.5px;color:#555;font-style:italic'\u003esingle\u003c\u002fspan\u003e","\u003cspan style='background:#dcdcdc;color:#222222;font-size:10px;font-weight:700;padding:2px 8px;border-radius:3px;letter-spacing:1px;'\u003ePYTHON\u003c\u002fspan\u003e\u003cbr\u003e\u003cspan style='background:#d6e6fb;display:inline-block;padding:1px 8px;border-radius:3px;'\u003e\u003cb style='font-size:12px'\u003engv_opx\u003c\u002fb\u003e\u003c\u002fspan\u003e\u003cbr\u003e\u003cspan style='font-size:10.5px;color:#555;font-style:italic'\u003evectorized\u003c\u002fspan\u003e","\u003cspan style='background:#c8e6cf;color:#1f7a3b;font-size:10px;font-weight:700;padding:2px 8px;border-radius:3px;letter-spacing:1px;'\u003eJAVASCRIPT\u003c\u002fspan\u003e\u003cbr\u003e\u003cspan style='background:#d6f0dc;display:inline-block;padding:1px 8px;border-radius:3px;'\u003e\u003cb style='font-size:12px'\u003e@ngv\u002fopx\u003c\u002fb\u003e\u003c\u002fspan\u003e\u003cbr\u003e\u003cspan style='font-size:10.5px;color:#555;font-style:italic'\u003esingle\u003c\u002fspan\u003e","\u003cspan style='background:#c8e6cf;color:#1f7a3b;font-size:10px;font-weight:700;padding:2px 8px;border-radius:3px;letter-spacing:1px;'\u003eJAVASCRIPT\u003c\u002fspan\u003e\u003cbr\u003e\u003cspan style='background:#d6f0dc;display:inline-block;padding:1px 8px;border-radius:3px;'\u003e\u003cb style='font-size:12px'\u003e@ngv\u002fopx\u003c\u002fb\u003e\u003c\u002fspan\u003e\u003cbr\u003e\u003cspan style='font-size:10.5px;color:#555;font-style:italic'\u003evectorized\u003c\u002fspan\u003e","\u003cspan style='background:#d8c4ea;color:#4a1f7a;font-size:10px;font-weight:700;padding:2px 8px;border-radius:3px;letter-spacing:1px;'\u003eRUST\u003c\u002fspan\u003e\u003cbr\u003e\u003cspan style='background:#e7d5f5;display:inline-block;padding:1px 8px;border-radius:3px;'\u003e\u003cb style='font-size:12px'\u003engv_opx\u003c\u002fb\u003e\u003c\u002fspan\u003e\u003cbr\u003e\u003cspan style='font-size:10.5px;color:#555;font-style:italic'\u003evectorized\u003c\u002fspan\u003e"]},"type":"table","domain":{"x":[0.0,1.0],"y":[0.6239999999999999,0.9999999999999999]}}],                        {"template":{"data":{"barpolar":[{"marker":{"line":{"color":"white","width":0.5},"pattern":{"fillmode":"overlay","size":10,"solidity":0.2}},"type":"barpolar"}],"bar":[{"error_x":{"color":"#2a3f5f"},"error_y":{"color":"#2a3f5f"},"marker":{"line":{"color":"white","width":0.5},"pattern":{"fillmode":"overlay","size":10,"solidity":0.2}},"type":"bar"}],"carpet":[{"aaxis":{"endlinecolor":"#2a3f5f","gridcolor":"#C8D4E3","linecolor":"#C8D4E3","minorgridcolor":"#C8D4E3","startlinecolor":"#2a3f5f"},"baxis":{"endlinecolor":"#2a3f5f","gridcolor":"#C8D4E3","linecolor":"#C8D4E3","minorgridcolor":"#C8D4E3","startlinecolor":"#2a3f5f"},"type":"carpet"}],"choropleth":[{"colorbar":{"outlinewidth":0,"ticks":""},"type":"choropleth"}],"contourcarpet":[{"colorbar":{"outlinewidth":0,"ticks":""},"type":"contourcarpet"}],"contour":[{"colorbar":{"outlinewidth":0,"ticks":""},"colorscale":[[0.0,"#0d0887"],[0.1111111111111111,"#46039f"],[0.2222222222222222,"#7201a8"],[0.3333333333333333,"#9c179e"],[0.4444444444444444,"#bd3786"],[0.5555555555555556,"#d8576b"],[0.6666666666666666,"#ed7953"],[0.7777777777777778,"#fb9f3a"],[0.8888888888888888,"#fdca26"],[1.0,"#f0f921"]],"type":"contour"}],"heatmap":[{"colorbar":{"outlinewidth":0,"ticks":""},"colorscale":[[0.0,"#0d0887"],[0.1111111111111111,"#46039f"],[0.2222222222222222,"#7201a8"],[0.3333333333333333,"#9c179e"],[0.4444444444444444,"#bd3786"],[0.5555555555555556,"#d8576b"],[0.6666666666666666,"#ed7953"],[0.7777777777777778,"#fb9f3a"],[0.8888888888888888,"#fdca26"],[1.0,"#f0f921"]],"type":"heatmap"}],"histogram2dcontour":[{"colorbar":{"outlinewidth":0,"ticks":""},"colorscale":[[0.0,"#0d0887"],[0.1111111111111111,"#46039f"],[0.2222222222222222,"#7201a8"],[0.3333333333333333,"#9c179e"],[0.4444444444444444,"#bd3786"],[0.5555555555555556,"#d8576b"],[0.6666666666666666,"#ed7953"],[0.7777777777777778,"#fb9f3a"],[0.8888888888888888,"#fdca26"],[1.0,"#f0f921"]],"type":"histogram2dcontour"}],"histogram2d":[{"colorbar":{"outlinewidth":0,"ticks":""},"colorscale":[[0.0,"#0d0887"],[0.1111111111111111,"#46039f"],[0.2222222222222222,"#7201a8"],[0.3333333333333333,"#9c179e"],[0.4444444444444444,"#bd3786"],[0.5555555555555556,"#d8576b"],[0.6666666666666666,"#ed7953"],[0.7777777777777778,"#fb9f3a"],[0.8888888888888888,"#fdca26"],[1.0,"#f0f921"]],"type":"histogram2d"}],"histogram":[{"marker":{"pattern":{"fillmode":"overlay","size":10,"solidity":0.2}},"type":"histogram"}],"mesh3d":[{"colorbar":{"outlinewidth":0,"ticks":""},"type":"mesh3d"}],"parcoords":[{"line":{"colorbar":{"outlinewidth":0,"ticks":""}},"type":"parcoords"}],"pie":[{"automargin":true,"type":"pie"}],"scatter3d":[{"line":{"colorbar":{"outlinewidth":0,"ticks":""}},"marker":{"colorbar":{"outlinewidth":0,"ticks":""}},"type":"scatter3d"}],"scattercarpet":[{"marker":{"colorbar":{"outlinewidth":0,"ticks":""}},"type":"scattercarpet"}],"scattergeo":[{"marker":{"colorbar":{"outlinewidth":0,"ticks":""}},"type":"scattergeo"}],"scattergl":[{"marker":{"colorbar":{"outlinewidth":0,"ticks":""}},"type":"scattergl"}],"scattermapbox":[{"marker":{"colorbar":{"outlinewidth":0,"ticks":""}},"type":"scattermapbox"}],"scattermap":[{"marker":{"colorbar":{"outlinewidth":0,"ticks":""}},"type":"scattermap"}],"scatterpolargl":[{"marker":{"colorbar":{"outlinewidth":0,"ticks":""}},"type":"scatterpolargl"}],"scatterpolar":[{"marker":{"colorbar":{"outlinewidth":0,"ticks":""}},"type":"scatterpolar"}],"scatter":[{"fillpattern":{"fillmode":"overlay","size":10,"solidity":0.2},"type":"scatter"}],"scatterternary":[{"marker":{"colorbar":{"outlinewidth":0,"ticks":""}},"type":"scatterternary"}],"surface":[{"colorbar":{"outlinewidth":0,"ticks":""},"colorscale":[[0.0,"#0d0887"],[0.1111111111111111,"#46039f"],[0.2222222222222222,"#7201a8"],[0.3333333333333333,"#9c179e"],[0.4444444444444444,"#bd3786"],[0.5555555555555556,"#d8576b"],[0.6666666666666666,"#ed7953"],[0.7777777777777778,"#fb9f3a"],[0.8888888888888888,"#fdca26"],[1.0,"#f0f921"]],"type":"surface"}],"table":[{"cells":{"fill":{"color":"#EBF0F8"},"line":{"color":"white"}},"header":{"fill":{"color":"#C8D4E3"},"line":{"color":"white"}},"type":"table"}]},"layout":{"annotationdefaults":{"arrowcolor":"#2a3f5f","arrowhead":0,"arrowwidth":1},"autotypenumbers":"strict","coloraxis":{"colorbar":{"outlinewidth":0,"ticks":""}},"colorscale":{"diverging":[[0,"#8e0152"],[0.1,"#c51b7d"],[0.2,"#de77ae"],[0.3,"#f1b6da"],[0.4,"#fde0ef"],[0.5,"#f7f7f7"],[0.6,"#e6f5d0"],[0.7,"#b8e186"],[0.8,"#7fbc41"],[0.9,"#4d9221"],[1,"#276419"]],"sequential":[[0.0,"#0d0887"],[0.1111111111111111,"#46039f"],[0.2222222222222222,"#7201a8"],[0.3333333333333333,"#9c179e"],[0.4444444444444444,"#bd3786"],[0.5555555555555556,"#d8576b"],[0.6666666666666666,"#ed7953"],[0.7777777777777778,"#fb9f3a"],[0.8888888888888888,"#fdca26"],[1.0,"#f0f921"]],"sequentialminus":[[0.0,"#0d0887"],[0.1111111111111111,"#46039f"],[0.2222222222222222,"#7201a8"],[0.3333333333333333,"#9c179e"],[0.4444444444444444,"#bd3786"],[0.5555555555555556,"#d8576b"],[0.6666666666666666,"#ed7953"],[0.7777777777777778,"#fb9f3a"],[0.8888888888888888,"#fdca26"],[1.0,"#f0f921"]]},"colorway":["#636efa","#EF553B","#00cc96","#ab63fa","#FFA15A","#19d3f3","#FF6692","#B6E880","#FF97FF","#FECB52"],"font":{"color":"#2a3f5f"},"geo":{"bgcolor":"white","lakecolor":"white","landcolor":"white","showlakes":true,"showland":true,"subunitcolor":"#C8D4E3"},"hoverlabel":{"align":"left"},"hovermode":"closest","mapbox":{"style":"light"},"paper_bgcolor":"white","plot_bgcolor":"white","polar":{"angularaxis":{"gridcolor":"#EBF0F8","linecolor":"#EBF0F8","ticks":""},"bgcolor":"white","radialaxis":{"gridcolor":"#EBF0F8","linecolor":"#EBF0F8","ticks":""}},"scene":{"xaxis":{"backgroundcolor":"white","gridcolor":"#DFE8F3","gridwidth":2,"linecolor":"#EBF0F8","showbackground":true,"ticks":"","zerolinecolor":"#EBF0F8"},"yaxis":{"backgroundcolor":"white","gridcolor":"#DFE8F3","gridwidth":2,"linecolor":"#EBF0F8","showbackground":true,"ticks":"","zerolinecolor":"#EBF0F8"},"zaxis":{"backgroundcolor":"white","gridcolor":"#DFE8F3","gridwidth":2,"linecolor":"#EBF0F8","showbackground":true,"ticks":"","zerolinecolor":"#EBF0F8"}},"shapedefaults":{"line":{"color":"#2a3f5f"}},"ternary":{"aaxis":{"gridcolor":"#DFE8F3","linecolor":"#A2B1C6","ticks":""},"baxis":{"gridcolor":"#DFE8F3","linecolor":"#A2B1C6","ticks":""},"bgcolor":"white","caxis":{"gridcolor":"#DFE8F3","linecolor":"#A2B1C6","ticks":""}},"title":{"x":0.05},"xaxis":{"automargin":true,"gridcolor":"#EBF0F8","linecolor":"#EBF0F8","ticks":"","title":{"standoff":15},"zerolinecolor":"#EBF0F8","zerolinewidth":2},"yaxis":{"automargin":true,"gridcolor":"#EBF0F8","linecolor":"#EBF0F8","ticks":"","title":{"standoff":15},"zerolinecolor":"#EBF0F8","zerolinewidth":2}}},"xaxis":{"anchor":"y","domain":[0.0,1.0],"title":{"text":"Batch size N"},"type":"log","showgrid":true},"yaxis":{"anchor":"x","domain":[0.0,0.564],"title":{"text":"ns per option"},"type":"log","showgrid":true},"title":{"text":"Black-76 pricing throughput — Python 3.13.3\u003cbr\u003e\u003csub\u003e\u003cspan style='color:#7b3fb5'\u003e● Rust ngv_opx (native)\u003c\u002fspan\u003e &nbsp;·&nbsp; \u003cspan style='color:#1f7a3b'\u003e● JS @ngv\u002fopx (wasm)\u003c\u002fspan\u003e &nbsp;·&nbsp; \u003cspan style='color:#1f5fb5'\u003e● Python ngv_opx\u003c\u002fspan\u003e &nbsp;·&nbsp; \u003cspan style='color:#555'\u003e● other Python libs\u003c\u002fspan\u003e\u003cbr\u003eLog-log; lower is faster.\u003c\u002fsub\u003e","x":0.5,"xanchor":"center"},"legend":{"orientation":"h","yanchor":"top","y":-0.12,"x":0.0},"margin":{"l":70,"r":30,"t":130,"b":80},"height":1100,"width":1200},                        {"responsive": true}                    )                };            </script>        </div>
 </body>
 </html>

diff --git a/benchmarks/bench_chart.py b/benchmarks/bench_chart.py
@@ -230,8 +230,8 @@ def render(paths) -> Path:
     fig = make_subplots(
         rows=2, cols=1,
         specs=[[{"type": "table"}], [{"type": "xy"}]],
-        row_heights=[0.32, 0.68],
-        vertical_spacing=0.08,
+        row_heights=[0.40, 0.60],
+        vertical_spacing=0.06,
     )
 
     for name in ORDERED:
@@ -370,25 +370,33 @@ def render(paths) -> Path:
     fig.update_yaxes(title_text="ns per option", type="log", showgrid=True, row=2, col=1)
     fig.update_layout(
         title=dict(
-            text=f"Black-76 pricing throughput — Python {pyver}<br>"
-                 f"<sub>Highlighting the ngv_opx solution vs other libraries. "
-                 f"<span style='color:#7b3fb5'>● Rust ngv_opx (native, purple)</span>"
-                 f" / <span style='color:#1f7a3b'>● JavaScript @ngv/opx (wasm, green)</span>"
-                 f" / <span style='color:#1f5fb5'>● Python ngv_opx (blue)</span>"
-                 f" / <span style='color:#555'>● other Python libs (greys)</span>. "
-                 f"Log-log; lower is faster.</sub>",
+            # Subtitle split across two lines so the color legend doesn't
+            # overflow the chart width.
+            text=(
+                f"Black-76 pricing throughput — Python {pyver}<br>"
+                f"<sub>"
+                f"<span style='color:#7b3fb5'>● Rust ngv_opx (native)</span>"
+                f" &nbsp;·&nbsp; <span style='color:#1f7a3b'>● JS @ngv/opx (wasm)</span>"
+                f" &nbsp;·&nbsp; <span style='color:#1f5fb5'>● Python ngv_opx</span>"
+                f" &nbsp;·&nbsp; <span style='color:#555'>● other Python libs</span>"
+                f"<br>Log-log; lower is faster."
+                f"</sub>"
+            ),
             x=0.5, xanchor="center",
         ),
         legend=dict(orientation="h", yanchor="top", y=-0.12, x=0.0),
         template="plotly_white",
-        height=950, width=1200,
-        margin=dict(l=70, r=30, t=110, b=80),
+        # Taller overall figure + bigger top margin to make room for the
+        # 2-line subtitle, and a taller table area (row_heights above) so
+        # the last (N=1,000,000) row isn't clipped.
+        height=1100, width=1200,
+        margin=dict(l=70, r=30, t=130, b=80),
     )
     out = Path(__file__).parent / "bench_chart.html"
     fig.write_html(out, include_plotlyjs="cdn")
     try:
         out_png = out.with_suffix(".png")
-        fig.write_image(out_png, width=1600, height=1267, scale=2)
+        fig.write_image(out_png, width=1600, height=1467, scale=2)
     except Exception as e:
         print(f"  (skipped PNG export: {e})", flush=True)
     return out

diff --git a/README.md b/README.md
@@ -114,12 +114,12 @@ Per-option time in nanoseconds (lower is faster). Measured on Python 3.13.3.
 
 | N | Python pure | numpy/scipy | py_vollib | ngv_opx (single) | **ngv_opx (vec)** | JS @ngv/opx (single) | **JS @ngv/opx (vec)** | **Rust ngv_opx** |
 |---:|---:|---:|---:|---:|---:|---:|---:|---:|
-| 10 | 812.5 | 720.8 | 2,225.0 | 362.5 | 120.8 | 320.8 | 266.6 | 33.4 |
-| 100 | 775.8 | 100.8 | 2,149.6 | 339.2 | 41.7 | 163.7 | 74.6 | 29.6 |
-| 1,000 | 746.5 | 41.3 | 2,153.7 | 341.8 | 43.0 | 203.4 | 61.2 | 32.8 |
-| 10,000 | 806.6 | 60.6 | 2,288.1 | 353.5 | 44.4 | 69.6 | 58.5 | 43.3 |
-| 100,000 | 723.0 | 65.0 | 2,102.2 | 331.6 | 40.7 | 65.6 | 56.3 | 41.6 |
-| 1,000,000 | 770.3 | 70.7 | 2,118.8 | 329.4 | 41.1 | 65.7 | 56.7 | 38.9 |
+| 10 | 891.7 | 716.6 | 2,266.7 | 354.2 | 125.0 | 245.9 | 250.0 | 29.1 |
+| 100 | 762.5 | 97.9 | 2,181.3 | 331.2 | 40.8 | 157.5 | 68.8 | 29.2 |
+| 1,000 | 733.4 | 39.1 | 2,093.0 | 328.4 | 39.3 | 203.0 | 60.3 | 32.8 |
+| 10,000 | 725.1 | 54.3 | 2,102.0 | 327.9 | 40.5 | 70.5 | 56.6 | 36.5 |
+| 100,000 | 729.1 | 62.8 | 2,065.0 | 335.5 | 40.7 | 65.7 | 55.8 | 37.7 |
+| 1,000,000 | 734.2 | 67.8 | 2,168.5 | 340.3 | 41.2 | 66.1 | 56.9 | 38.4 |
 
 Interactive version: [`benchmarks/bench_chart.html`](benchmarks/bench_chart.html) (open locally; GitHub doesn't render embedded JS).
 
